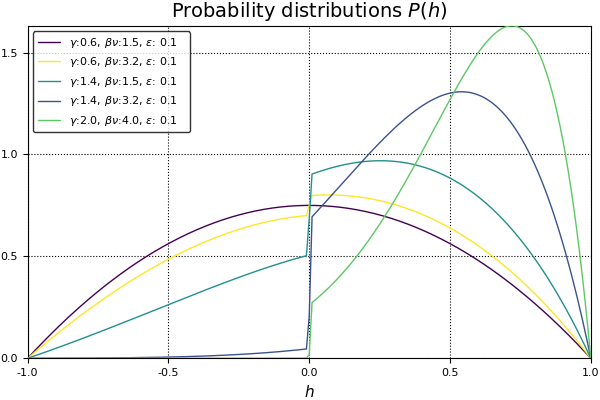
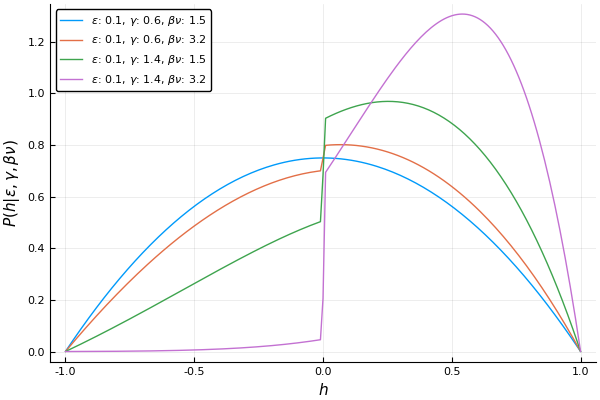
Mostly fig:probh

diff --git a/source/41_mfresults.md b/source/41_mfresults.md
@@ -24,7 +24,7 @@ In [@sec:comparisonmfq] we show that another parameter, $g$, has a similar role 
 We can also change variables in our mean field probability distribution. This is useful because the inner representation $\student_i$ is not readily accessible to the experimentalist, whereas the opinion field $h$ in some applications might be:
 
 \begin{align}
-    P(h) &= \int \measure{\student}\ \delta\left( \frac{\student \cdot \zeitgeist}{\sqrt{K}}  - h \right) P_{\mathrm{MF}}(\student) \\
+    P(h|\varepsilon, \gamma, \beta\nu) &= \int \measure{\student}\ \delta\left( \frac{\student \cdot \zeitgeist}{\sqrt{K}}  - h \right) P_{\mathrm{MF}}(\student) \\
     &= \frac1C\ (1 - h^2)\ \left[ \varepsilon + \left(1 - 2\varepsilon\right) \Phi \left( \frac{r}\gamma h + \frac{m}{\gamma}\sign h  \right) \right]^{\beta \nu \gamma^2}
 \end{align}
 
@@ -36,6 +36,6 @@ The computational results we found are presented in [@fig:probh] and [@fig:mfvar
 
 ![Variance of the field $h$ with respect to selected values of $\beta\nu$ and $\gamma$](images/variance.png){#fig:mfvariance width='99%'}
 
-We note that the distribution $P(h)$ ([@fig:probh]) has a discontinuity in $h=0$ due to the $\sign h$ term, which is a source of complication when trying to fit empirical data. This is one of the main reasons we discuss a different model in [@sec:visujecaextension; and @sec:comparisonmfq]
+We note that the distribution $P(h|\varepsilon, \gamma, \beta\nu)$ ([@fig:probh]) has a discontinuity in $h=0$ due to the $\sign h$ term, which is a source of complication when trying to fit empirical data. This is one of the main reasons we discuss a different model in [@sec:visujecaextension; and @sec:comparisonmfq]
 
 A last point to observe is that higher values of $\varepsilon$ shift the phase boundary in [@fig:phasem] upwards. This is because there is more noise in the interaction between agents therefore it is more difficult to establish agreement. However, for values $\varepsilon \geq 0.5$, the noise is large enough that the system yields no stable solution. This is the first idea that led us to pursue a different model in [@sec:mfantiferromagnetic; and @sec:mfantiresults] with explicit antiferromagnetic interactions.
